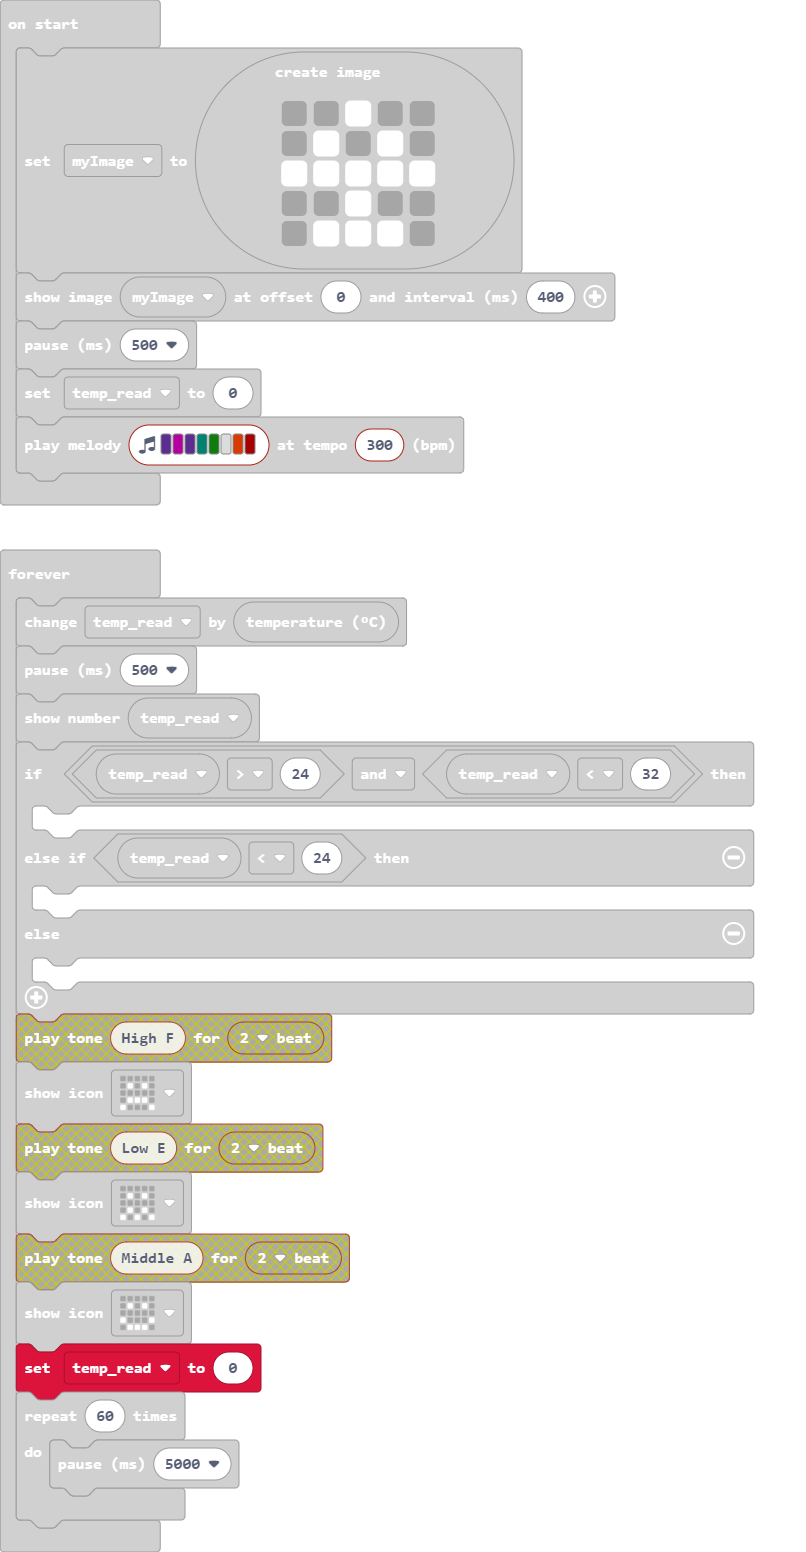
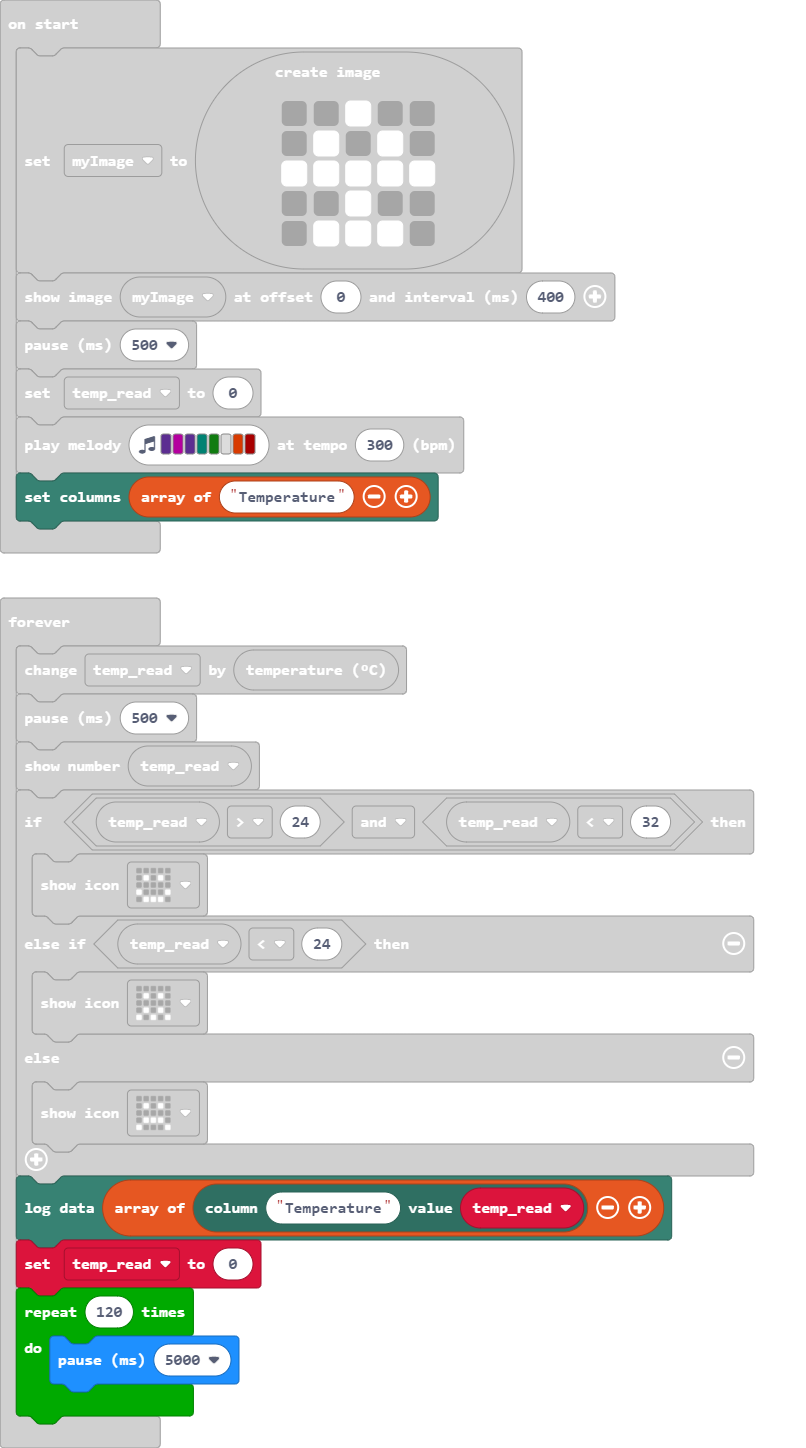
added a data logger for temperature measurement

diff --git a/main.ts b/main.ts
@@ -9,6 +9,7 @@ myImage.showImage(0, 400)
 basic.pause(500)
 let temp_read = 0
 music.playMelody("D C D F G - B C5 ", 300)
+datalogger.setColumns(["Temperature"])
 basic.forever(function () {
     temp_read += input.temperature()
     basic.pause(500)
@@ -20,8 +21,9 @@ basic.forever(function () {
     } else {
         basic.showIcon(IconNames.Sad)
     }
+    datalogger.logData([datalogger.createCV("Temperature", temp_read)])
     temp_read = 0
-    for (let index = 0; index < 60; index++) {
+    for (let index = 0; index < 120; index++) {
         basic.pause(5000)
     }
 })
